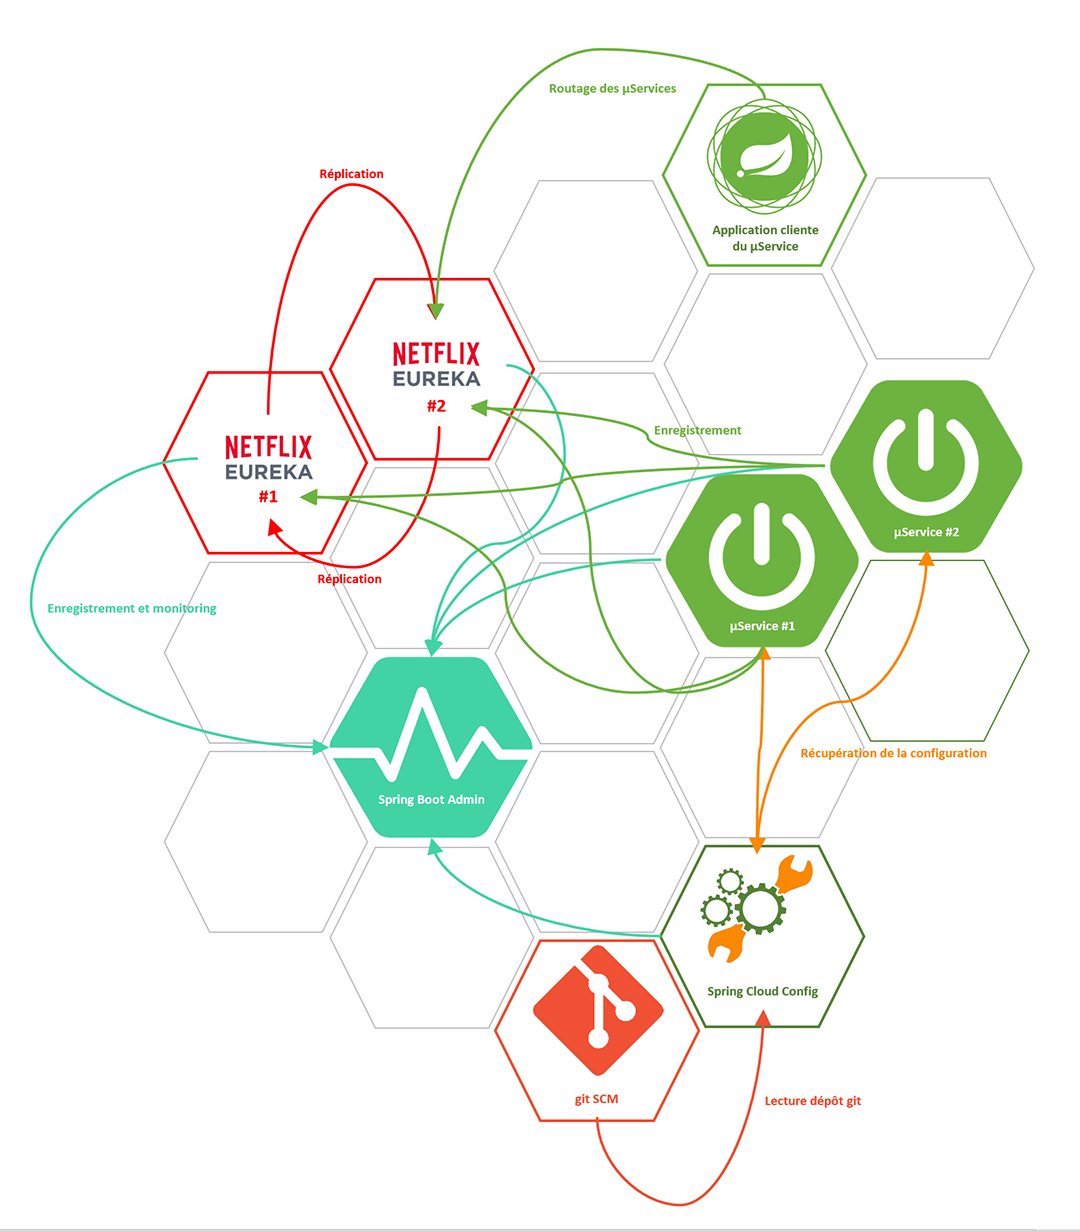
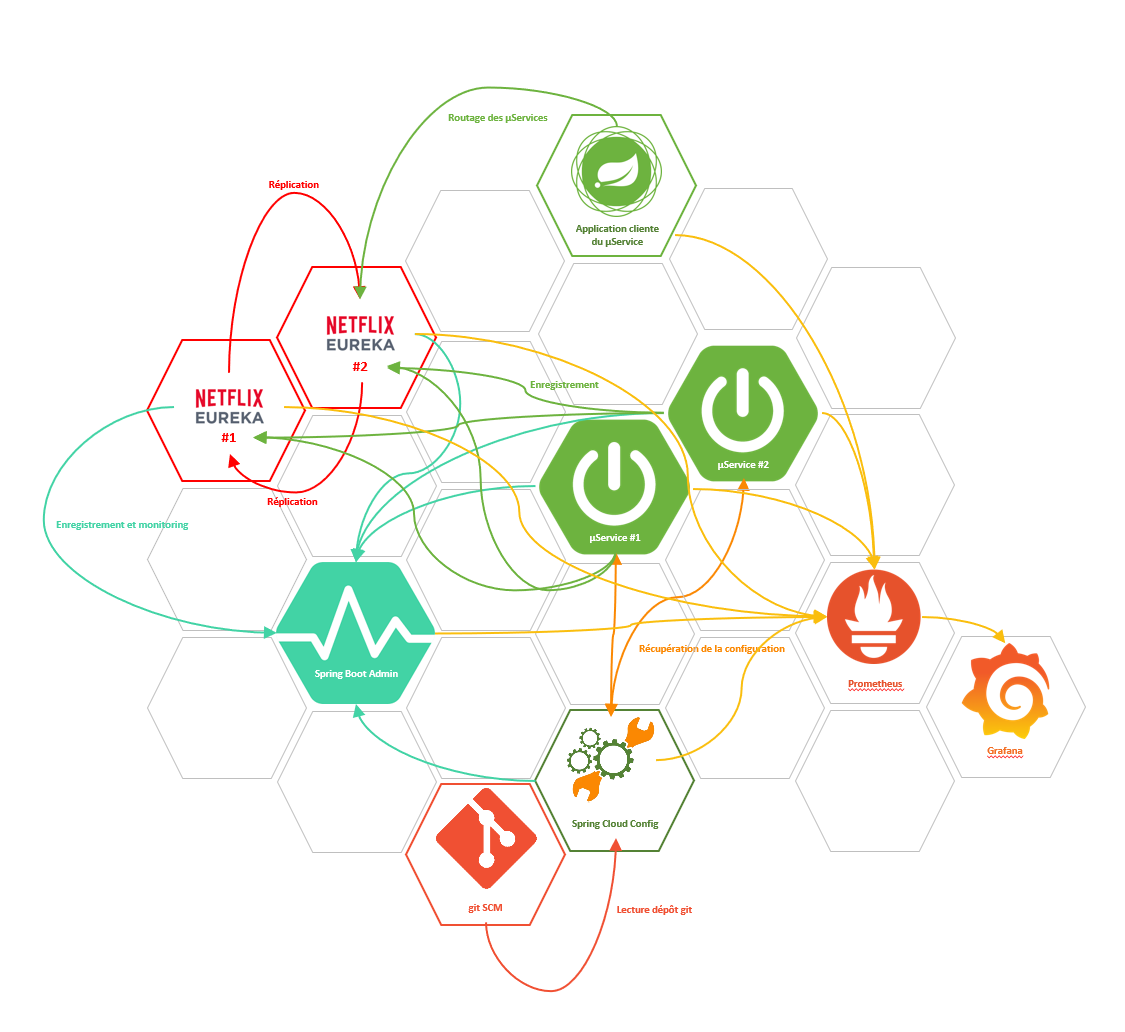
Update documentation

diff --git a/README.md b/README.md
@@ -10,7 +10,13 @@
 
 ![Big picture](./docs/images/VueGlobale.PNG)
 
-Projects is completed with *Prometheus* and *Grafana*.
+What you can find :
+- stand-alone Spring based applications
+- Service discovery with [Eureka](https://spring.io/projects/spring-cloud-netflix#overview) (Spring Cloud Netflix)
+- Spring Boot applications monitoring with [Spring Boot Admin](https://docs.spring-boot-admin.com/3.4.1/getting-started.html)
+- Spring Boot applications monitoring with [Micrometer](https://micrometer.io/), [Prometheus](https://prometheus.io/) and [Grafana](https://grafana.com/)
+- [Circuit breaker Pattern](https://spring.io/guides/gs/cloud-circuit-breaker) for microservices
+
 
 ### Run projects
 
